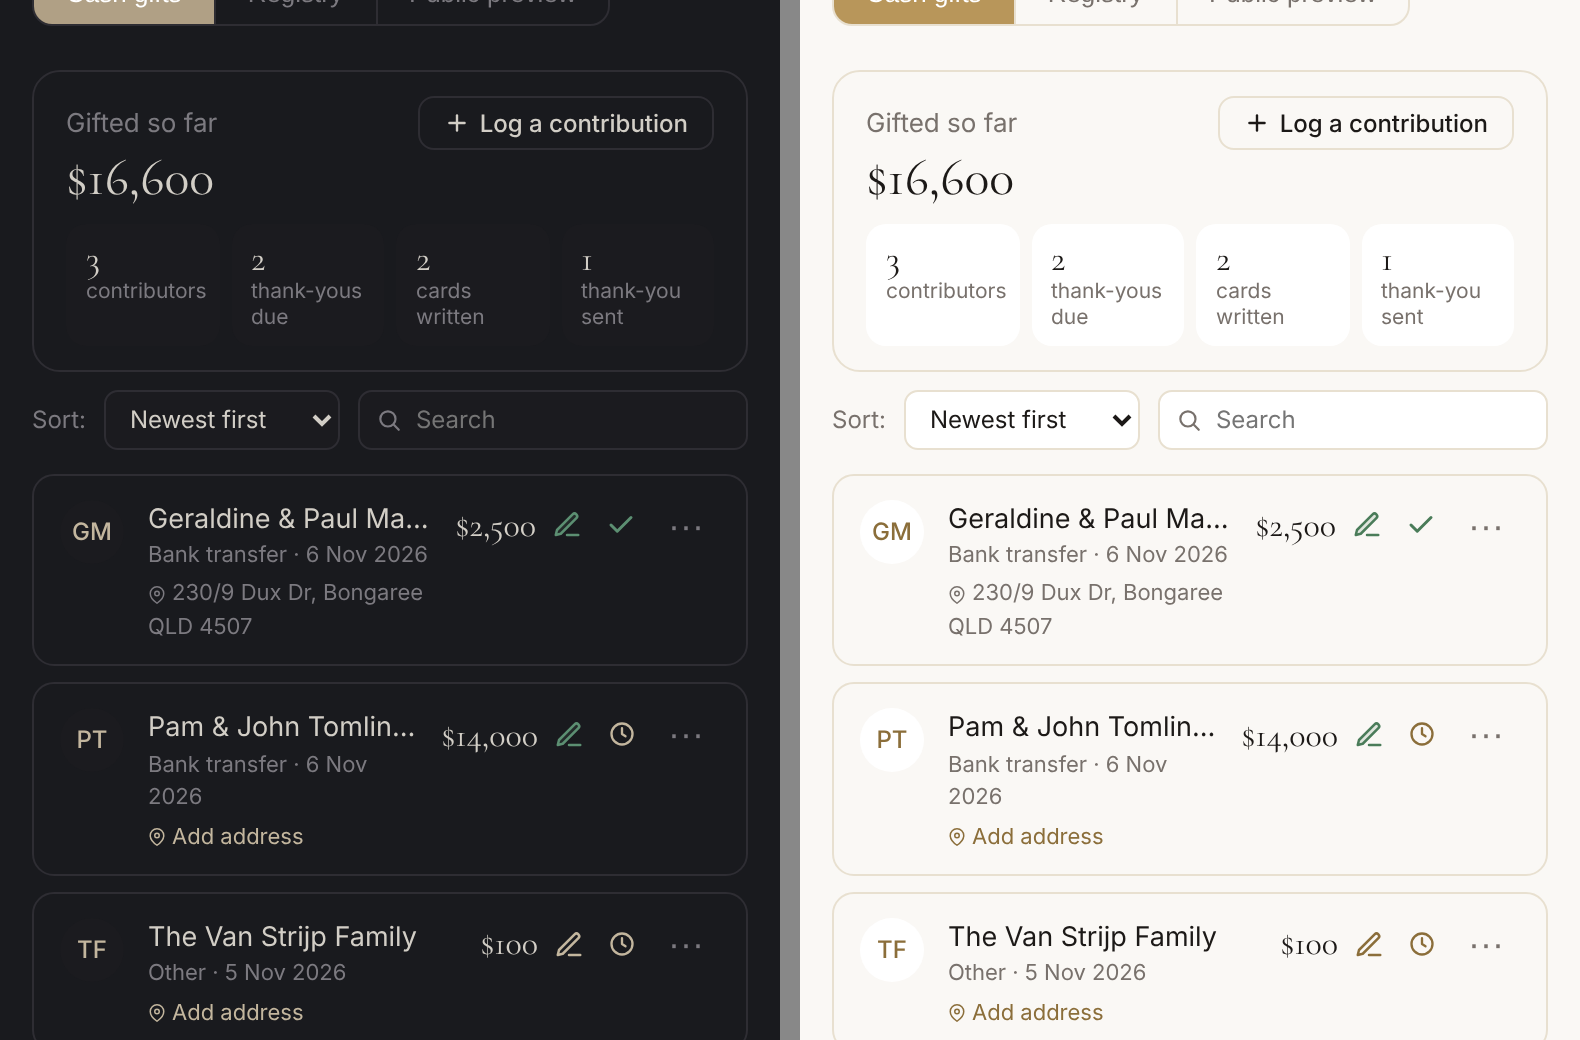
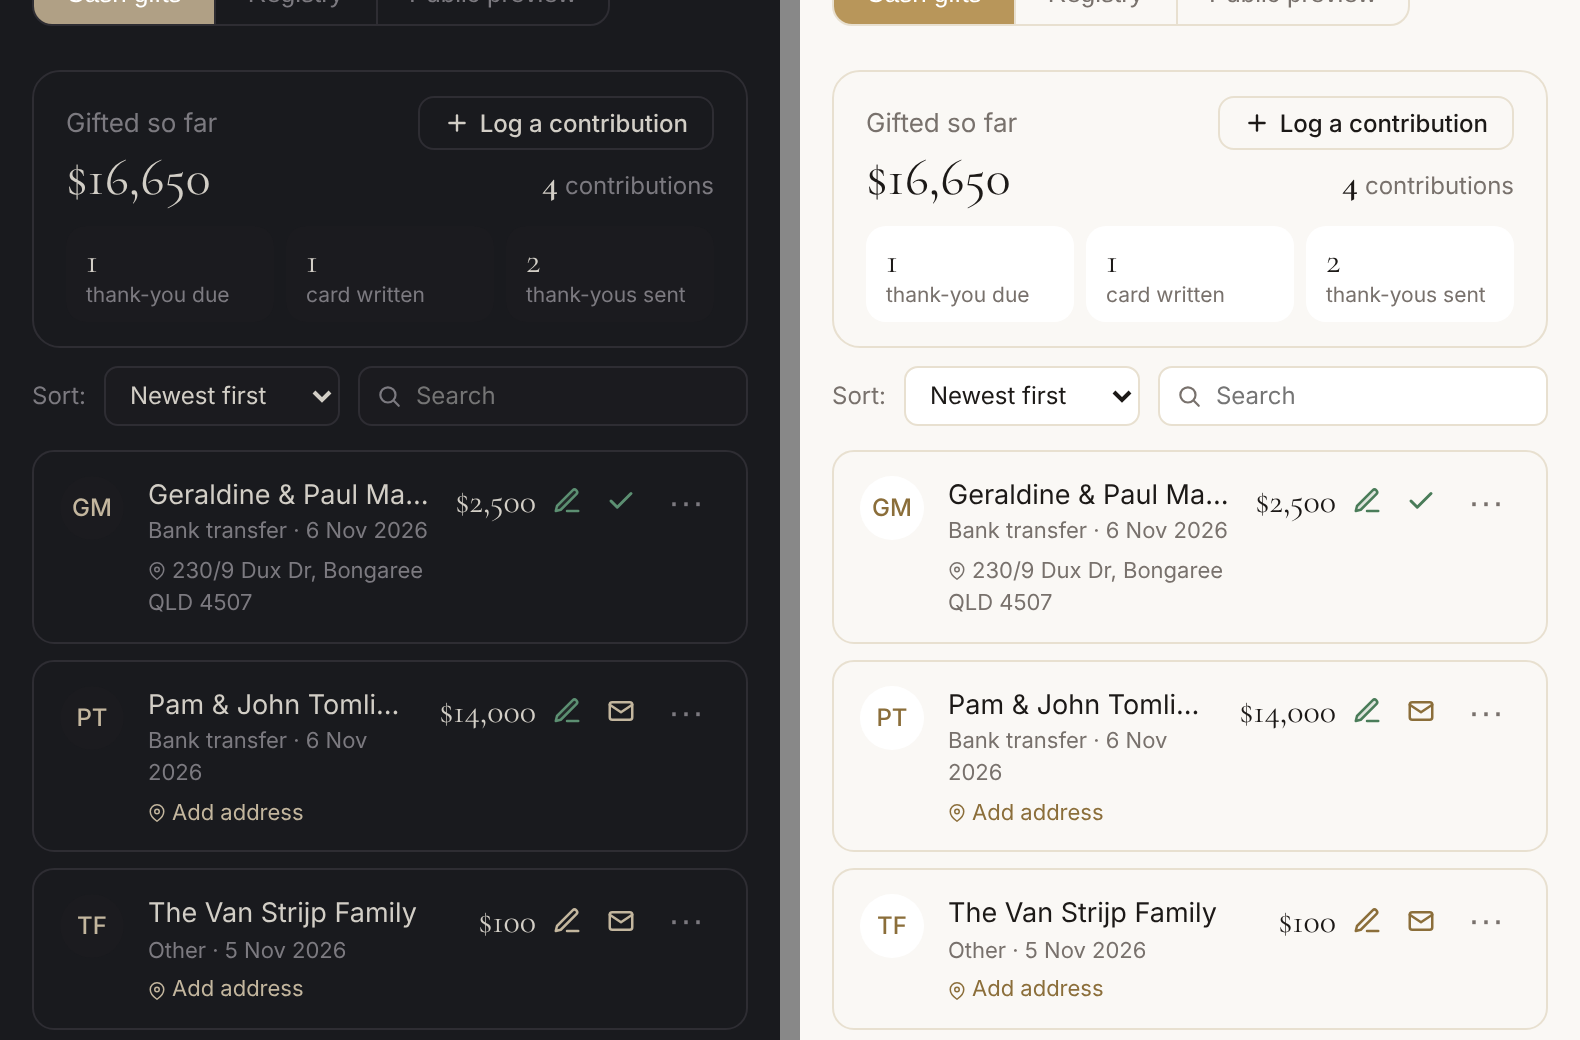
Wishing Well thank-yous: total contributions beside the amount; due / written / sent partition the total; envelope replaces clock; sent implies written
Claude-Session: https://claude.ai/code/session_019ebu8y6tvbQkLuJc75gwaS

diff --git a/js/website.js b/js/website.js
@@ -6235,9 +6235,9 @@ function renderWishingWell(c, actions){
 
 function _wwTrackerHtml(ww, total, count, thanksDue){
   const thanksSent = (ww.contributions||[]).filter(x=>x.thanked).length;
-  const cardsWritten = (ww.contributions||[]).filter(x=>x.cardWritten).length;
-  const stats = `<div style="display:grid;grid-template-columns:repeat(4,minmax(0,1fr));gap:6px;margin:8px 0 0">
-      <div style="background:var(--surface);border-radius:10px;padding:7px 10px"><div style="font-family:'Cormorant Garamond',serif;font-size:18px;line-height:1.15;color:var(--ink)">${count}</div><div style="font-size:10.5px;line-height:1.25;color:var(--muted)">contributor${count===1?'':'s'}</div></div>
+  const cardsWritten = (ww.contributions||[]).filter(x=>x.cardWritten && !x.thanked).length;
+  const totalContribs = (ww.contributions||[]).length;
+  const stats = `<div style="display:grid;grid-template-columns:repeat(3,minmax(0,1fr));gap:6px;margin:8px 0 0">
       <div style="background:var(--surface);border-radius:10px;padding:7px 10px"><div style="font-family:'Cormorant Garamond',serif;font-size:18px;line-height:1.15;color:var(--ink)">${thanksDue}</div><div style="font-size:10.5px;line-height:1.25;color:var(--muted)">thank-you${thanksDue===1?'':'s'} due</div></div>
       <div style="background:var(--surface);border-radius:10px;padding:7px 10px"><div style="font-family:'Cormorant Garamond',serif;font-size:18px;line-height:1.15;color:var(--ink)">${cardsWritten}</div><div style="font-size:10.5px;line-height:1.25;color:var(--muted)">card${cardsWritten===1?'':'s'} written</div></div>
       <div style="background:var(--surface);border-radius:10px;padding:7px 10px"><div style="font-family:'Cormorant Garamond',serif;font-size:18px;line-height:1.15;color:var(--ink)">${thanksSent}</div><div style="font-size:10.5px;line-height:1.25;color:var(--muted)">thank-you${thanksSent===1?'':'s'} sent</div></div>
@@ -6248,7 +6248,10 @@ function _wwTrackerHtml(ww, total, count, thanksDue){
         <span style="font-size:13px;color:var(--muted)">Gifted so far</span>
         <button class="btn btn-outline btn-sm" onclick="openWwContribution()" style="display:inline-flex;align-items:center;gap:5px;font-size:12px;padding:5px 12px"><svg width="13" height="13" viewBox="0 0 24 24" fill="none" stroke="currentColor" stroke-width="2.2" stroke-linecap="round" stroke-linejoin="round"><line x1="12" y1="5" x2="12" y2="19"/><line x1="5" y1="12" x2="19" y2="12"/></svg>Log a contribution</button>
       </div>
-      <div style="font-family:'Cormorant Garamond',serif;font-size:26px;line-height:1.1;color:var(--ink)">${fmt(total)}</div>
+      <div style="display:flex;justify-content:space-between;align-items:baseline;gap:10px">
+        <span style="font-family:'Cormorant Garamond',serif;font-size:26px;line-height:1.1;color:var(--ink)">${fmt(total)}</span>
+        <span style="font-size:12px;color:var(--muted);white-space:nowrap"><b style="font-family:'Cormorant Garamond',serif;font-size:18px;font-weight:600;color:var(--ink)">${totalContribs}</b> contribution${totalContribs===1?'':'s'}</span>
+      </div>
       ${stats}
     </div>`;
 
@@ -6306,9 +6309,9 @@ function _wwRowHtml(x){
   const meta = [_wwMethodLabel(x.method), x.date?fmtBudgetDate(x.date):''].filter(Boolean).join(' · ');
   const thankBtn = thanked
     ? `<button onclick="toggleWwThanked('${x.id}')" title="Thanked — click to undo" aria-label="Thanked" style="background:none;border:none;cursor:pointer;color:var(--green,#5C8A4E);display:inline-flex;padding:4px"><svg width="15" height="15" viewBox="0 0 24 24" fill="none" stroke="currentColor" stroke-width="2.4" stroke-linecap="round" stroke-linejoin="round"><polyline points="20 6 9 17 4 12"/></svg></button>`
-    : `<button onclick="toggleWwThanked('${x.id}')" title="Mark thank-you sent" aria-label="Thank-you pending" style="background:none;border:none;cursor:pointer;color:var(--gold-deep);display:inline-flex;padding:4px"><svg width="14" height="14" viewBox="0 0 24 24" fill="none" stroke="currentColor" stroke-width="2" stroke-linecap="round" stroke-linejoin="round"><circle cx="12" cy="12" r="9"/><path d="M12 7v5l3 2"/></svg></button>`;
-  const cardW = !!x.cardWritten;
-  const cardBtn = `<button onclick="toggleWwCardWritten('${x.id}')" title="${cardW?'Thank-you card written — click to undo':'Mark thank-you card written'}" aria-label="${cardW?'Thank-you card written':'Thank-you card not written'}" style="background:none;border:none;cursor:pointer;color:${cardW?'var(--green,#5C8A4E)':'var(--gold-deep)'};display:inline-flex;padding:4px"><svg width="15" height="15" viewBox="0 0 24 24" fill="${cardW?'currentColor':'none'}" fill-opacity="${cardW?'.15':'0'}" stroke="currentColor" stroke-width="2" stroke-linecap="round" stroke-linejoin="round"><path d="M12 20h9"/><path d="M16.5 3.5a2.1 2.1 0 0 1 3 3L7 19l-4 1 1-4Z"/></svg></button>`;
+    : `<button onclick="toggleWwThanked('${x.id}')" title="Mark thank-you sent" aria-label="Thank-you pending" style="background:none;border:none;cursor:pointer;color:var(--gold-deep);display:inline-flex;padding:4px"><svg width="15" height="15" viewBox="0 0 24 24" fill="none" stroke="currentColor" stroke-width="2" stroke-linecap="round" stroke-linejoin="round"><rect x="3" y="5" width="18" height="14" rx="2"/><path d="m3 7 9 6 9-6"/></svg></button>`;
+  const cardW = !!x.cardWritten || thanked;
+  const cardBtn = `<button onclick="toggleWwCardWritten('${x.id}')" title="${thanked?'Card written (thank-you sent)':cardW?'Thank-you card written — click to undo':'Mark thank-you card written'}" aria-label="${cardW?'Thank-you card written':'Thank-you card not written'}" style="background:none;border:none;cursor:pointer;color:${cardW?'var(--green,#5C8A4E)':'var(--gold-deep)'};display:inline-flex;padding:4px"><svg width="15" height="15" viewBox="0 0 24 24" fill="${cardW?'currentColor':'none'}" fill-opacity="${cardW?'.15':'0'}" stroke="currentColor" stroke-width="2" stroke-linecap="round" stroke-linejoin="round"><path d="M12 20h9"/><path d="M16.5 3.5a2.1 2.1 0 0 1 3 3L7 19l-4 1 1-4Z"/></svg></button>`;
   const _resolveContribAddr=(x)=>{
     if((x.address||'').trim()) return x.address.trim();
     const nl=(x.name||'').trim().toLowerCase();
@@ -6913,7 +6916,7 @@ function openWwContribution(id){
         <input type="checkbox" id="ww-cardwritten" ${x&&x.cardWritten?'checked':''} style="width:15px;height:15px;cursor:pointer;accent-color:var(--gold)"/> Thank-you card written
       </label>
       <label style="display:flex;align-items:center;gap:9px;font-size:13px;color:var(--ink);cursor:pointer">
-        <input type="checkbox" id="ww-thanked" ${x&&x.thanked?'checked':''} style="width:15px;height:15px;cursor:pointer;accent-color:var(--gold)"/> Thank-you already sent
+        <input type="checkbox" id="ww-thanked" ${x&&x.thanked?'checked':''} onchange="if(this.checked)document.getElementById('ww-cardwritten').checked=true" style="width:15px;height:15px;cursor:pointer;accent-color:var(--gold)"/> Thank-you already sent
       </label>
     </div>`;
   const footer = `<button class="btn btn-outline btn-sm" onclick="closeModalDirect()">Cancel</button><button class="btn btn-primary btn-sm" onclick="saveWwContribution()">${id?'Save':'Add contribution'}</button>`;
@@ -6995,7 +6998,7 @@ function saveWwContribution(){
   const note = (document.getElementById('ww-note').value||'').trim();
   const address = (document.getElementById('ww-address').value||'').trim();
   const thanked = document.getElementById('ww-thanked').checked;
-  const cardWritten = document.getElementById('ww-cardwritten').checked;
+  const cardWritten = document.getElementById('ww-cardwritten').checked || thanked;
   if(!name && !amount){ closeModalDirect(); return; }
   if(!STATE.wishingwell.contributions) STATE.wishingwell.contributions=[];
   if(_wwEditId){
@@ -7012,11 +7015,11 @@ function saveWwContribution(){
 
 function toggleWwCardWritten(id){
   const x = (STATE.wishingwell.contributions||[]).find(c=>c.id===id);
-  if(x){ x.cardWritten=!x.cardWritten; saveToStorage(); navigate('wishingwell'); }
+  if(x && !x.thanked){ x.cardWritten=!x.cardWritten; saveToStorage(); navigate('wishingwell'); }
 }
 function toggleWwThanked(id){
   const x = (STATE.wishingwell.contributions||[]).find(c=>c.id===id);
-  if(x){ x.thanked=!x.thanked; saveToStorage(); navigate('wishingwell'); }
+  if(x){ x.thanked=!x.thanked; if(x.thanked) x.cardWritten=true; saveToStorage(); navigate('wishingwell'); }
 }
 
 function deleteWwContribution(id){
@@ -7098,7 +7101,7 @@ function _wwPrintList(){
       <td style="padding:6px 10px">${(c.method||'—').replace(/&/g,'&amp;')}</td>
       <td style="padding:6px 10px">${c.date||'—'}</td>
       <td style="padding:6px 10px;word-break:break-word">${(c.address||'').trim().replace(/&/g,'&amp;').replace(/</g,'&lt;')}</td>
-      <td style="padding:6px 10px;text-align:center">${c.cardWritten?'✓':'—'}</td>
+      <td style="padding:6px 10px;text-align:center">${(c.cardWritten||c.thanked)?'✓':'—'}</td>
       <td style="padding:6px 10px;text-align:center">${c.thanked?'✓':'—'}</td>
     </tr>`;
   }).join('');

diff --git a/js/wishingwell.js b/js/wishingwell.js
@@ -5,7 +5,8 @@ let wwSort = 'newest'; // 'newest'|'oldest'|'highest'|'lowest'|'name'
 let wwCols = 1;
 function _wwEsc(s){ return String(s==null?'':s).replace(/&/g,'&amp;').replace(/</g,'&lt;').replace(/>/g,'&gt;').replace(/"/g,'&quot;'); }
 function _wwTotal(){ return (STATE.wishingwell.contributions||[]).reduce((t,x)=>t+(Number(x.amount)||0),0); }
-function _wwThanksDue(){ return (STATE.wishingwell.contributions||[]).filter(x=>!x.thanked).length; }
+// Every contribution is in exactly one state: due (no card yet), written (card written, not yet sent) or sent (sent implies written).
+function _wwThanksDue(){ return (STATE.wishingwell.contributions||[]).filter(x=>!x.thanked && !x.cardWritten).length; }
 function _wwMethodLabel(m){ return ({payid:'PayID',bank:'Bank transfer',paypal:'PayPal',cash:'Cash',card:'Card',cheque:'Cheque',other:'Other'})[m]||'Other'; }
 
 function setWwTab(t){ wwTab=t; navigate('wishingwell'); }
